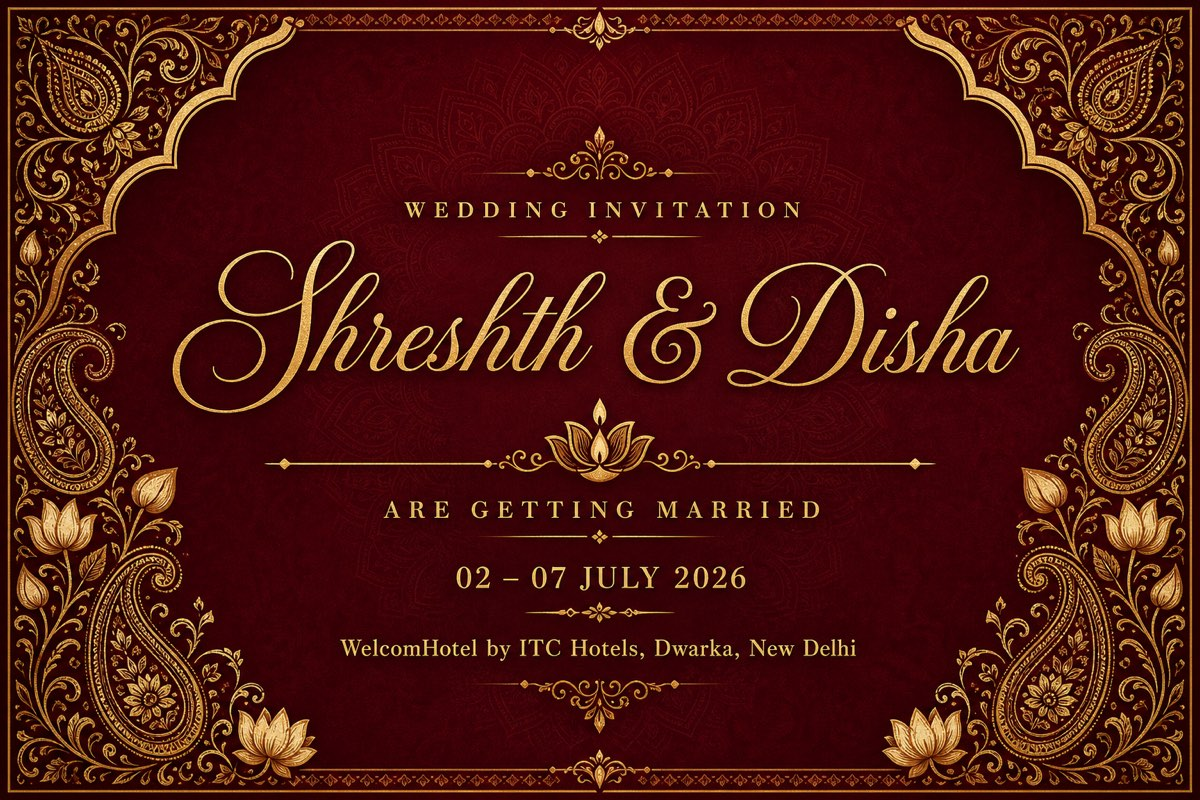
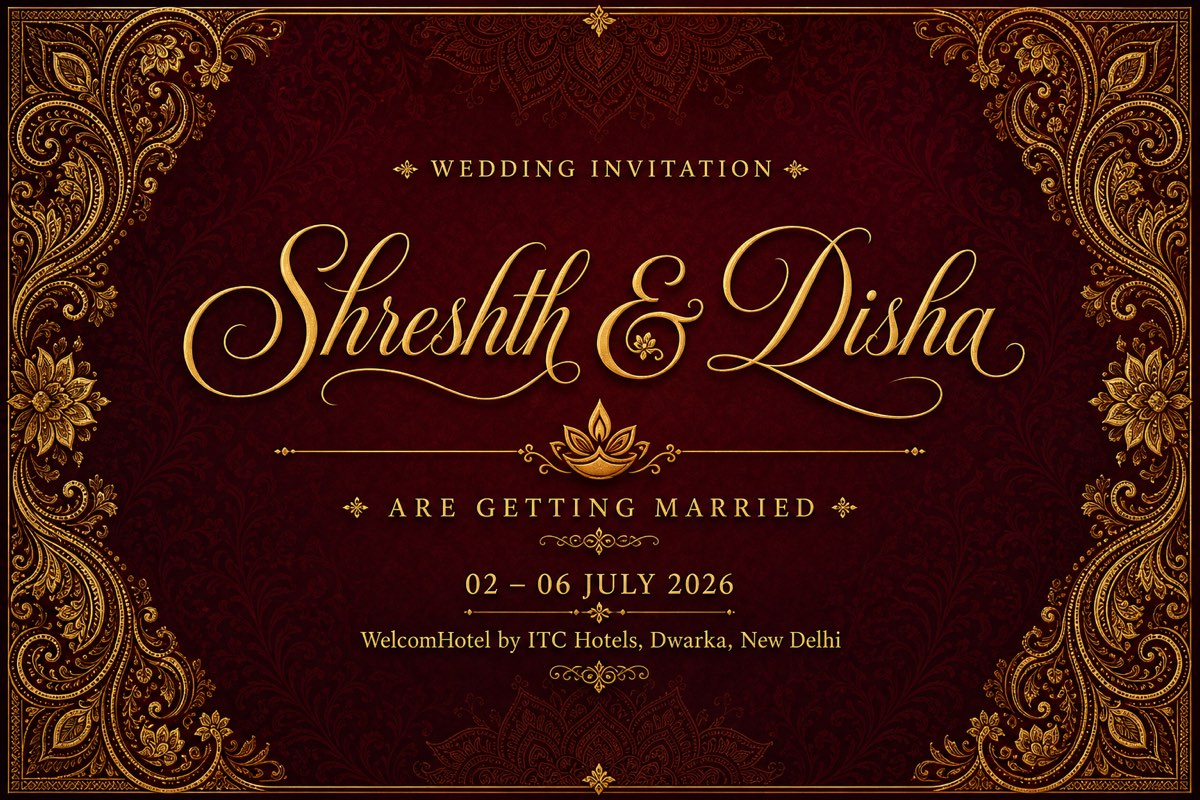
Update share thumbnail to 02-06 July 2026

diff --git a/wedding-invite/index.html b/wedding-invite/index.html
@@ -11,7 +11,7 @@
   <meta property="og:description" content="With the blessings of our elders, join us across our days of celebration. 2–7 July 2026 · Delhi & Noida." />
   <meta property="og:type" content="website" />
   <meta property="og:url" content="https://stuli.ai/wedding-invite/" />
-  <meta property="og:image" content="https://stuli.ai/wedding-invite/assets/og-cover.jpg" />
+  <meta property="og:image" content="https://stuli.ai/wedding-invite/assets/og-cover.jpg?v=2" />
   <meta property="og:image:width" content="1200" />
   <meta property="og:image:height" content="800" />
   <meta property="og:image:alt" content="Shreshth & Disha — Wedding Invitation, 02–07 July 2026" />
@@ -20,7 +20,7 @@
   <meta name="twitter:card" content="summary_large_image" />
   <meta name="twitter:title" content="Shreshth & Disha are getting married" />
   <meta name="twitter:description" content="Join us across our days of celebration. 2–7 July 2026 · Delhi & Noida." />
-  <meta name="twitter:image" content="https://stuli.ai/wedding-invite/assets/og-cover.jpg" />
+  <meta name="twitter:image" content="https://stuli.ai/wedding-invite/assets/og-cover.jpg?v=2" />
 
   <link rel="preconnect" href="https://fonts.googleapis.com" />
   <link rel="preconnect" href="https://fonts.gstatic.com" crossorigin />
